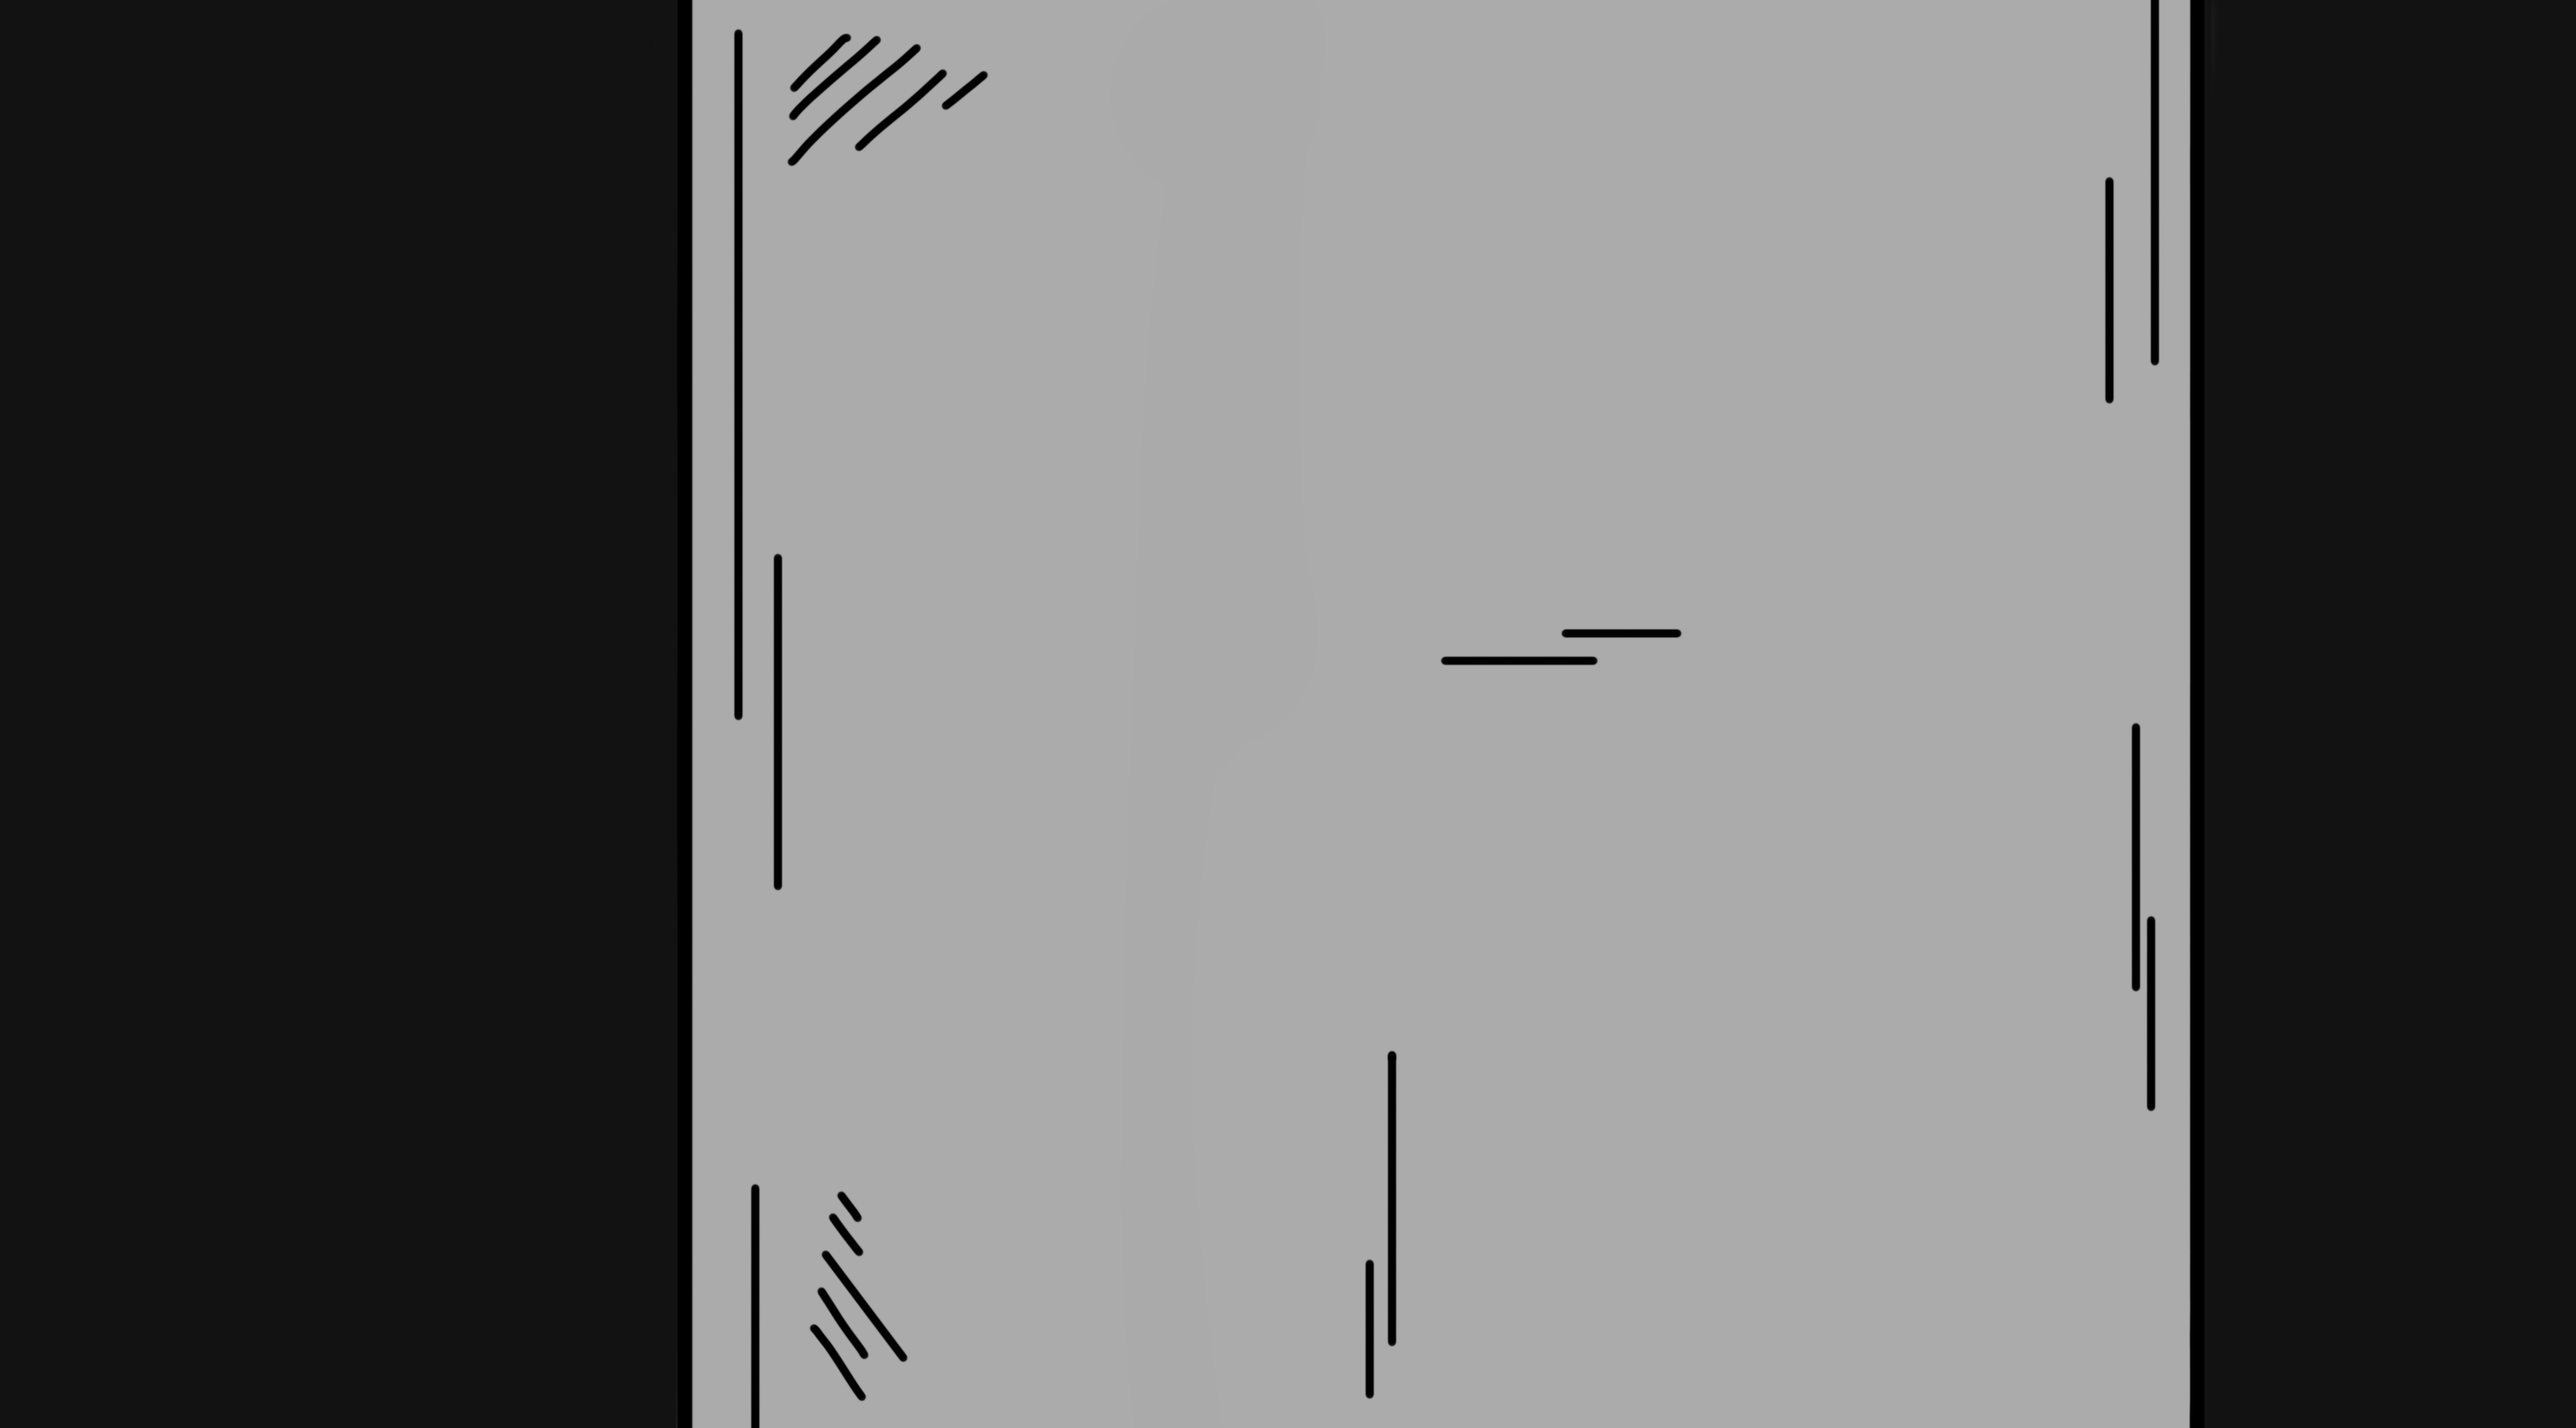
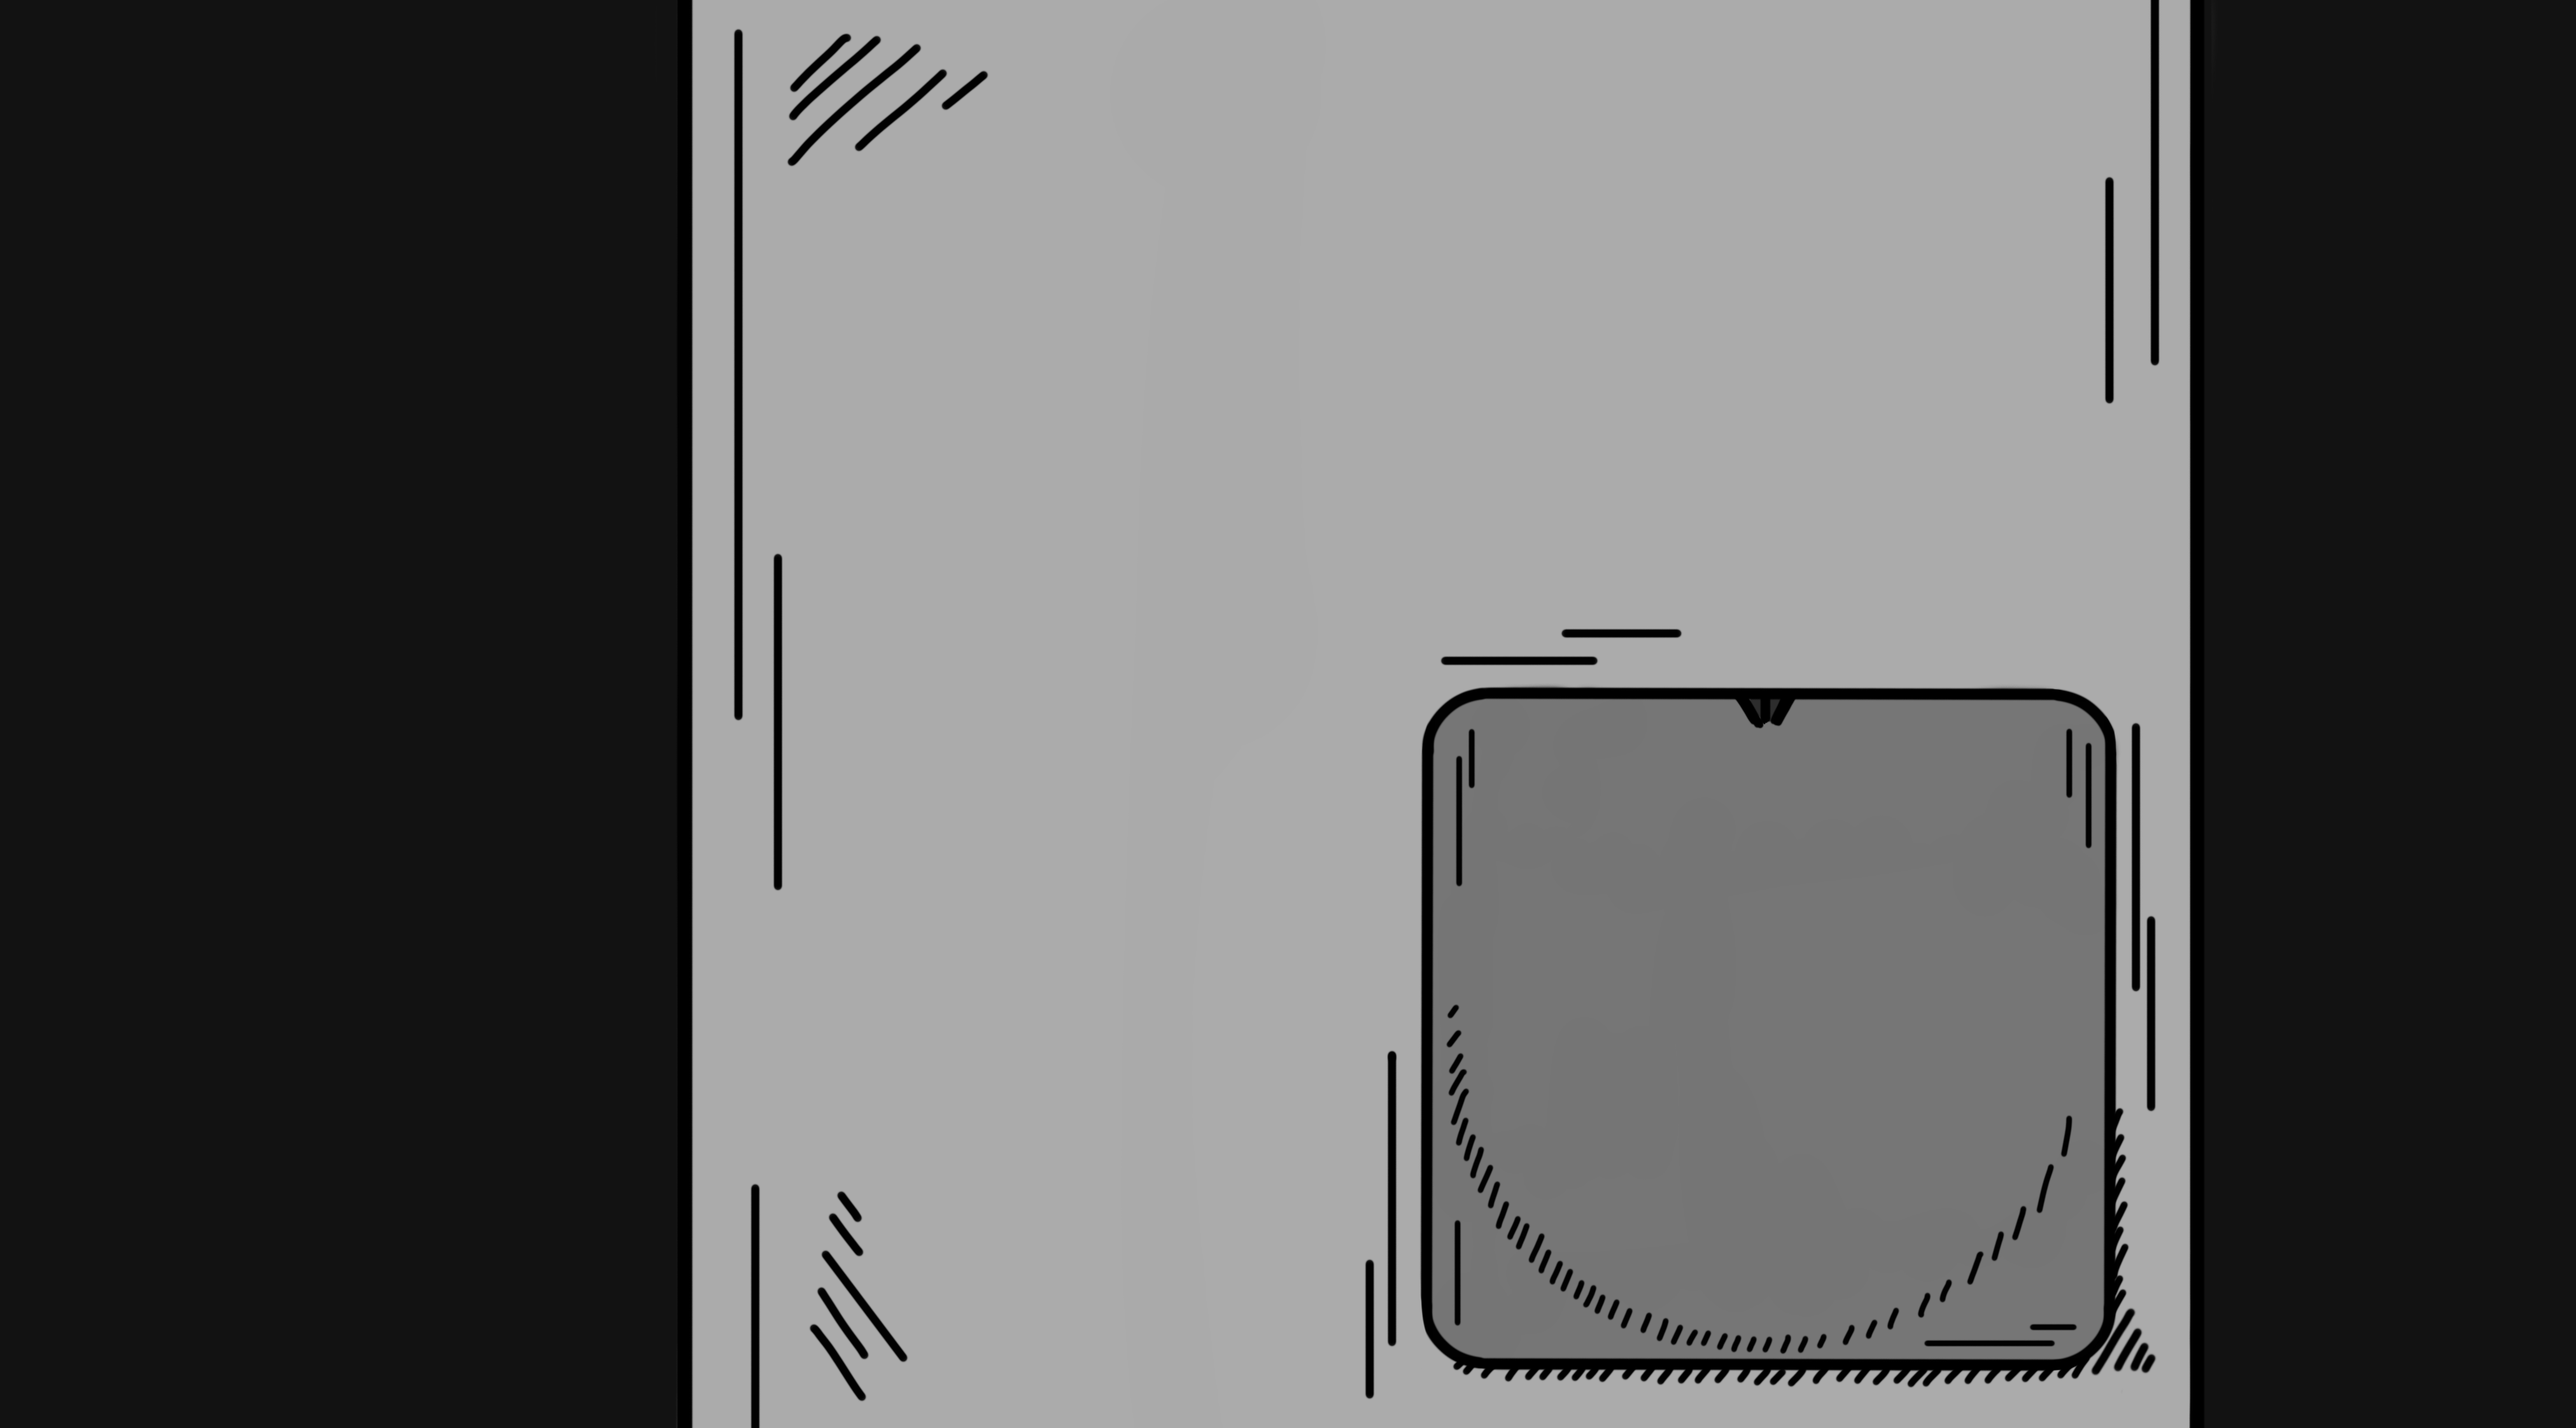
assets locker puzzle

Changed region(s): [[0.5293, 0.4679, 0.8406, 0.967]]

diff --git a/TheatrumMundiProyect/TheatrumMundi/LockerPuzzle.cpp b/TheatrumMundiProyect/TheatrumMundi/LockerPuzzle.cpp
@@ -46,7 +46,7 @@ void LockerPuzzle::init(SceneRoomTemplate* sr)
 
         //strongBox door
         //Big wheel 
-        auto big = entityFactory->CreateInteractableEntity(entityManager, "StrongBoxWheel", EntityFactory::CIRCLEAREA, Vector2D(387, 86.5), Vector2D(0, 0), 575, 575, 60, areaLayerManager, EntityFactory::NODRAG, ecs::grp::DEFAULT);
+        auto big = entityFactory->CreateInteractableEntity(entityManager, "rueda1", EntityFactory::CIRCLEAREA, Vector2D(755, 368), Vector2D(0, 0), 516/1.5, 516 / 1.5, 60, areaLayerManager, EntityFactory::NODRAG, ecs::grp::DEFAULT);
         SlowRotateComponent* aux3 = entityManager->addComponent<SlowRotateComponent>(big, entityManager->getComponent<Transform>(big));
         entityManager->getComponent<ClickComponent>(big)->connect(ClickComponent::JUST_CLICKED, [this, aux3]() {
             aux3->startRotate(60);
@@ -55,7 +55,7 @@ void LockerPuzzle::init(SceneRoomTemplate* sr)
         doorEntities.push_back(big);
         
         //medium wheel 
-        auto medium = entityFactory->CreateInteractableEntity(entityManager, "StrongBoxWheel", EntityFactory::CIRCLEAREA, Vector2D(449.5, 149), Vector2D(0, 0), 450, 450, 288, areaLayerManager, EntityFactory::NODRAG, ecs::grp::DEFAULT);
+        auto medium = entityFactory->CreateInteractableEntity(entityManager, "rueda2", EntityFactory::CIRCLEAREA, Vector2D(795, 414), Vector2D(0, 0), 395/1.5, 395 / 1.5, 288, areaLayerManager, EntityFactory::NODRAG, ecs::grp::DEFAULT);
         SlowRotateComponent* aux2 = entityManager->addComponent<SlowRotateComponent>(medium, entityManager->getComponent<Transform>(medium));
         entityManager->getComponent<ClickComponent>(medium)->connect(ClickComponent::JUST_CLICKED, [this, aux2]() {
             aux2->startRotate(72);
@@ -64,7 +64,7 @@ void LockerPuzzle::init(SceneRoomTemplate* sr)
         doorEntities.push_back(medium);
         
         //small wheel
-        auto small = entityFactory->CreateInteractableEntity(entityManager, "StrongBoxWheel", EntityFactory::CIRCLEAREA, Vector2D(512, 211.5), Vector2D(0, 0), 325, 325, 90, areaLayerManager, EntityFactory::NODRAG, ecs::grp::DEFAULT);
+        auto small = entityFactory->CreateInteractableEntity(entityManager, "rueda3", EntityFactory::CIRCLEAREA, Vector2D(837, 453), Vector2D(0, 0), 274/1.5, 274 / 1.5, 90, areaLayerManager, EntityFactory::NODRAG, ecs::grp::DEFAULT);
         SlowRotateComponent* aux = entityManager->addComponent<SlowRotateComponent>(small,entityManager->getComponent<Transform>(small));
         entityManager->getComponent<ClickComponent>(small)->connect(ClickComponent::JUST_CLICKED, [this,aux](){
             aux->startRotate(90);
@@ -73,7 +73,7 @@ void LockerPuzzle::init(SceneRoomTemplate* sr)
         doorEntities.push_back(small);
        
         //smallest wheel
-        auto smallest = entityFactory->CreateInteractableEntity(entityManager, "StrongBoxWheel", EntityFactory::CIRCLEAREA, Vector2D(574.5, 274), Vector2D(0, 0), 200, 200, 240, areaLayerManager, EntityFactory::NODRAG, ecs::grp::DEFAULT);
+        auto smallest = entityFactory->CreateInteractableEntity(entityManager, "rueda4", EntityFactory::CIRCLEAREA, Vector2D(876, 490), Vector2D(0, 0), 158/1.5, 158 / 1.5, 240, areaLayerManager, EntityFactory::NODRAG, ecs::grp::DEFAULT);
         SlowRotateComponent* aux1 = entityManager->addComponent<SlowRotateComponent>(smallest, entityManager->getComponent<Transform>(smallest));
         entityManager->getComponent<ClickComponent>(smallest)->connect(ClickComponent::JUST_CLICKED, [this, aux1]() {
             aux1->startRotate(120);
